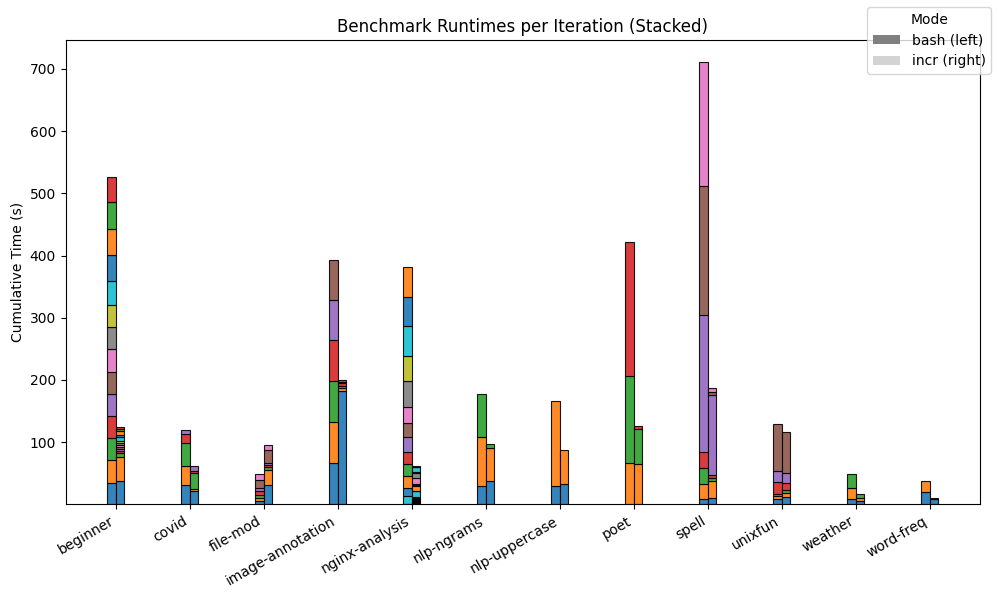
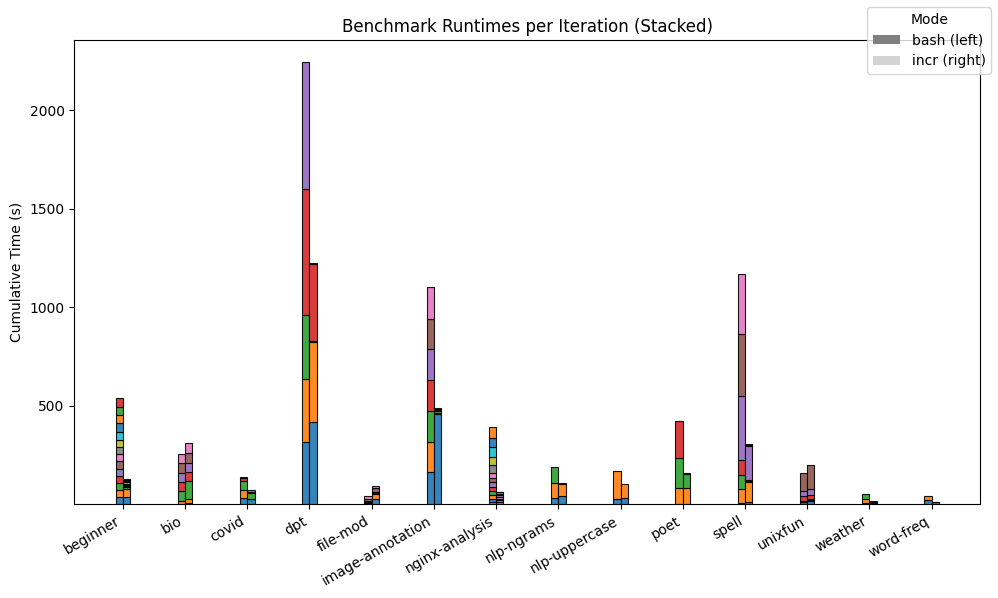
new results

diff --git a/evaluation/analysis/plot.py b/evaluation/analysis/plot.py
@@ -6,7 +6,9 @@ from matplotlib.patches import Patch
 
 BENCHMARKS = [
     "beginner",
+    "bio",
     "covid",
+    "dpt",
     "file-mod",
     "image-annotation",
     "nginx-analysis",
